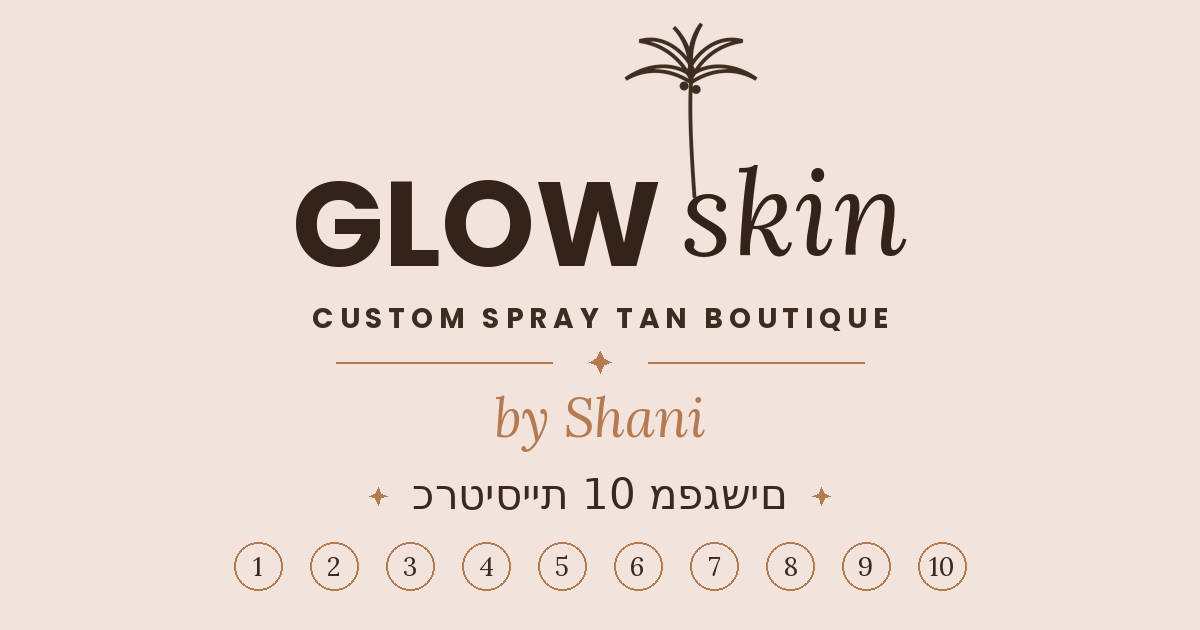
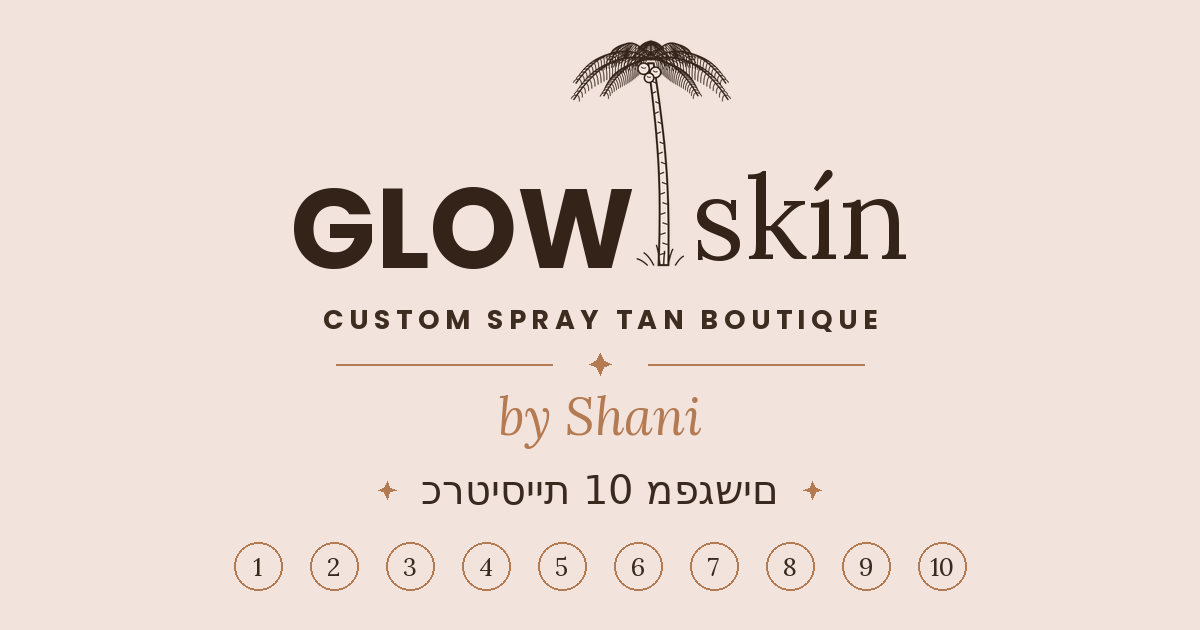
Add files via upload

diff --git a/index.html b/index.html
@@ -20,7 +20,7 @@
 <link rel="apple-touch-icon" href="glow-skin-icon.png">
 <link rel="icon" type="image/png" href="glow-skin-icon.png">
 <link rel="preconnect" href="https://fonts.googleapis.com">
-<link href="https://fonts.googleapis.com/css2?family=Archivo+Black&family=Playfair+Display:ital,wght@0,400;0,600;1,400&family=Frank+Ruhl+Libre:wght@400;500;700&family=Dancing+Script:wght@600&family=Heebo:wght@300;400;500;700&display=swap" rel="stylesheet">
+<link href="https://fonts.googleapis.com/css2?family=Archivo+Black&family=Zilla+Slab:wght@300;400&family=Frank+Ruhl+Libre:wght@400;500;700&family=Dancing+Script:wght@600&family=Heebo:wght@300;400;500;700&display=swap" rel="stylesheet">
 <style>
   :root{
     --bg:#f2e3dc;
@@ -41,10 +41,16 @@
   .app{width:100%;max-width:480px;padding:28px 22px 40px;text-align:center}
 
   /* ---------- Logo ---------- */
-  .palm{width:64px;height:auto;display:block;margin:0 auto 2px;opacity:.9}
-  .logo{display:flex;align-items:baseline;justify-content:center;gap:6px;direction:ltr}
-  .logo .glow{font-family:'Archivo Black',sans-serif;font-size:44px;letter-spacing:1px;color:#332318}
-  .logo .skin{font-family:'Playfair Display',serif;font-size:44px;font-weight:400;color:#332318}
+  .logo-wrap{position:relative;display:block;padding-top:118px}
+  .palm-img{position:absolute;bottom:-14px;left:50%;transform:translateX(-31%);height:212px;width:auto;z-index:0;pointer-events:none}
+  .logo{position:relative;z-index:1;display:flex;align-items:baseline;justify-content:center;gap:34px;direction:ltr}
+  .logo .glow{font-family:'Archivo Black',sans-serif;font-size:46px;letter-spacing:0;color:#332318;display:flex}
+  .logo .glow i{font-style:normal;display:inline-block}
+  .logo .glow i:nth-child(1){transform:rotate(-3deg) translateY(1px)}
+  .logo .glow i:nth-child(2){transform:rotate(2deg)}
+  .logo .glow i:nth-child(3){transform:rotate(-2deg) translateY(1px)}
+  .logo .glow i:nth-child(4){transform:rotate(2.5deg)}
+  .logo .skin{font-family:'Zilla Slab',serif;font-size:50px;font-weight:400;color:#332318;letter-spacing:1px}
   .tagline{direction:ltr;font-family:'Heebo',sans-serif;font-weight:300;letter-spacing:5px;font-size:11.5px;margin-top:4px;color:#3d2c20;text-transform:uppercase}
   .divider{display:flex;align-items:center;gap:10px;margin:14px 0 4px;color:var(--copper)}
   .divider::before,.divider::after{content:"";flex:1;border-top:1px solid var(--copper);opacity:.6}
@@ -156,23 +162,11 @@
 <body>
 <div class="app">
 
-  <!-- Palm -->
-  <svg class="palm" viewBox="0 0 100 110" fill="none" xmlns="http://www.w3.org/2000/svg" aria-hidden="true">
-    <g stroke="#3d2c20" stroke-width="2.2" stroke-linecap="round" fill="none">
-      <path d="M52 108 C50 80 49 58 50 42"/>
-      <path d="M50 42 C38 34 24 33 12 40 C26 30 42 31 50 38"/>
-      <path d="M50 42 C62 34 76 33 88 40 C74 30 58 31 50 38"/>
-      <path d="M50 40 C44 28 34 20 20 18 C34 14 46 24 51 34"/>
-      <path d="M50 40 C56 28 66 20 80 18 C66 14 54 24 49 34"/>
-      <path d="M50 38 C48 26 50 16 56 8 C50 18 49 28 51 36"/>
-      <path d="M50 38 C50 26 46 16 40 10 C48 18 51 28 50 36"/>
-    </g>
-    <circle cx="46" cy="44" r="2.6" fill="#3d2c20"/>
-    <circle cx="53" cy="46" r="2.6" fill="#3d2c20"/>
-  </svg>
-
-  <!-- Logo -->
-  <div class="logo"><span class="glow">GLOW</span><span class="skin">skin</span></div>
+  <!-- Logo with palm rising between the words -->
+  <div class="logo-wrap">
+    <img class="palm-img" src="palm.png" alt="" aria-hidden="true">
+    <div class="logo"><span class="glow"><i>G</i><i>L</i><i>O</i><i>W</i></span><span class="skin">skín</span></div>
+  </div>
   <div class="tagline">Custom Spray Tan Boutique</div>
   <div class="divider"><span class="spark">✦</span></div>
   <div class="byline">by Shani</div>